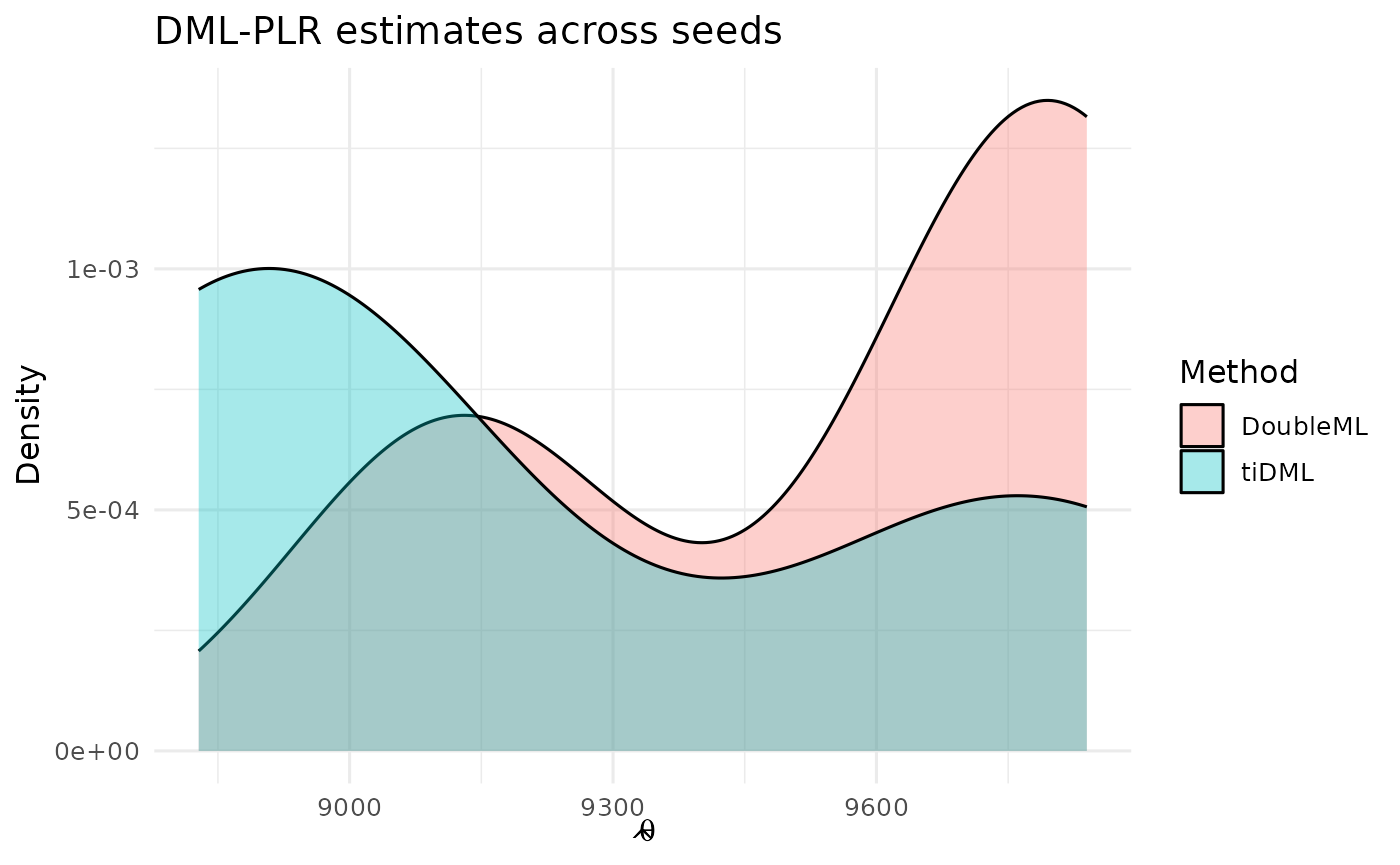
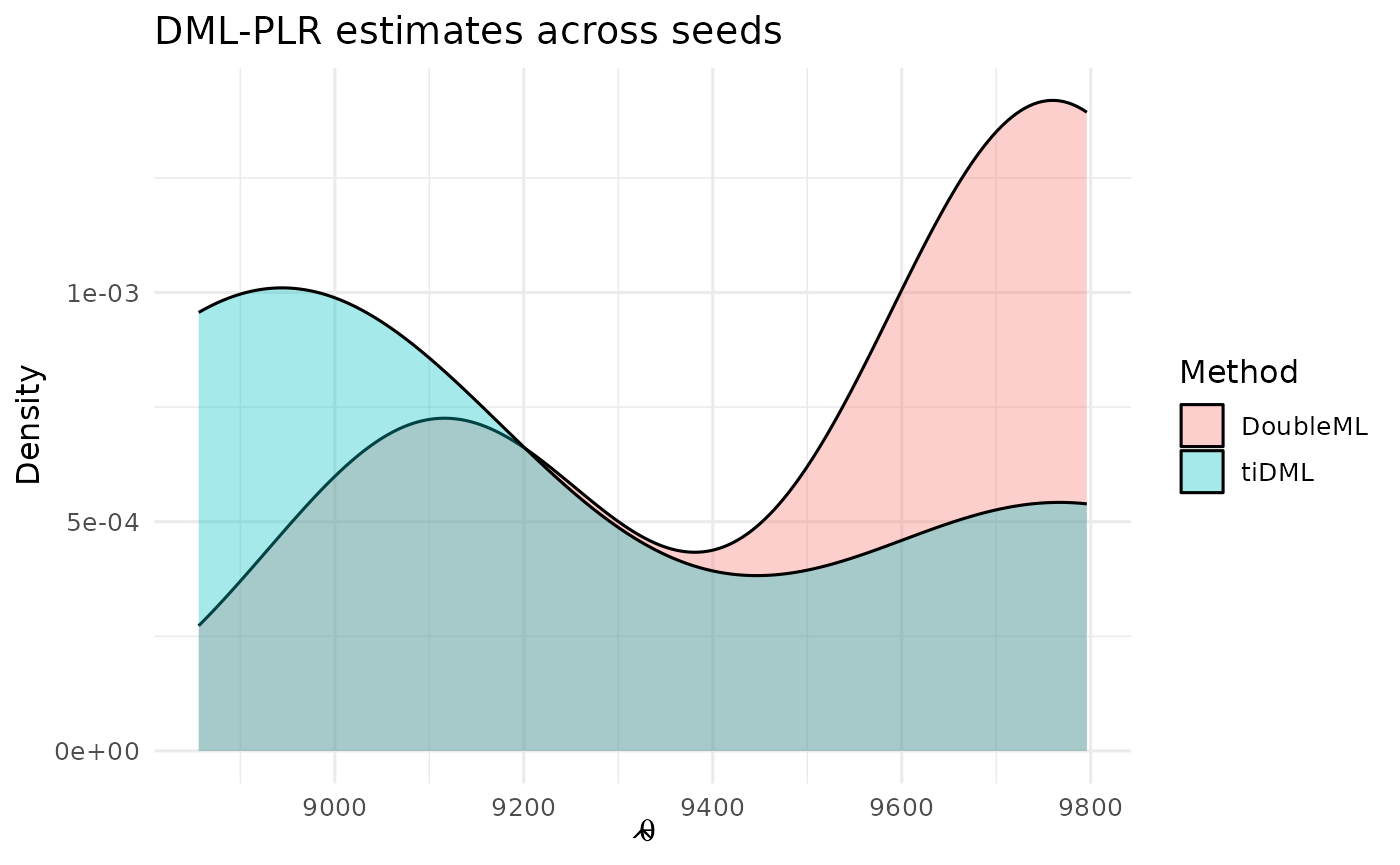
Deploying to gh-pages from @ jberesford-fe/tiDML@112e1fd5d14112a3515f57d68da0cf1e44dda5f6 🚀

diff --git a/articles/package-replication.html b/articles/package-replication.html
@@ -5,7 +5,7 @@
 <meta charset="utf-8">
 <meta http-equiv="X-UA-Compatible" content="IE=edge">
 <meta name="viewport" content="width=device-width, initial-scale=1, shrink-to-fit=no">
-<title>Package Replication • tiDML</title>
+<title>DoubleML Package • tiDML</title>
 <!-- favicons --><link rel="icon" type="image/png" sizes="96x96" href="../favicon-96x96.png">
 <link rel="icon" type="”image/svg+xml”" href="../favicon.svg">
 <link rel="apple-touch-icon" sizes="180x180" href="../apple-touch-icon.png">
@@ -15,7 +15,7 @@
 <link href="../deps/bootstrap-5.3.1/bootstrap.min.css" rel="stylesheet">
 <script src="../deps/bootstrap-5.3.1/bootstrap.bundle.min.js"></script><link href="../deps/font-awesome-6.5.2/css/all.min.css" rel="stylesheet">
 <link href="../deps/font-awesome-6.5.2/css/v4-shims.min.css" rel="stylesheet">
-<script src="../deps/headroom-0.11.0/headroom.min.js"></script><script src="../deps/headroom-0.11.0/jQuery.headroom.min.js"></script><script src="../deps/bootstrap-toc-1.0.1/bootstrap-toc.min.js"></script><script src="../deps/clipboard.js-2.0.11/clipboard.min.js"></script><script src="../deps/search-1.0.0/autocomplete.jquery.min.js"></script><script src="../deps/search-1.0.0/fuse.min.js"></script><script src="../deps/search-1.0.0/mark.min.js"></script><!-- pkgdown --><script src="../pkgdown.js"></script><meta property="og:title" content="Package Replication">
+<script src="../deps/headroom-0.11.0/headroom.min.js"></script><script src="../deps/headroom-0.11.0/jQuery.headroom.min.js"></script><script src="../deps/bootstrap-toc-1.0.1/bootstrap-toc.min.js"></script><script src="../deps/clipboard.js-2.0.11/clipboard.min.js"></script><script src="../deps/search-1.0.0/autocomplete.jquery.min.js"></script><script src="../deps/search-1.0.0/fuse.min.js"></script><script src="../deps/search-1.0.0/mark.min.js"></script><!-- pkgdown --><script src="../pkgdown.js"></script><meta property="og:title" content="DoubleML Package">
 </head>
 <body>
     <a href="#main" class="visually-hidden-focusable">Skip to contents</a>
@@ -41,10 +41,11 @@
   <ul class="dropdown-menu" aria-labelledby="dropdown-articles">
 <li><hr class="dropdown-divider"></li>
     <li><h6 class="dropdown-header" data-toc-skip>Replication</h6></li>
-    <li><a class="dropdown-item" href="../articles/package-replication.html">Package Replication</a></li>
+    <li><a class="dropdown-item" href="../articles/package-replication.html">DoubleML Package</a></li>
     <li><hr class="dropdown-divider"></li>
     <li><h6 class="dropdown-header" data-toc-skip>How-to</h6></li>
-    <li><a class="dropdown-item" href="../articles/user-defined-recipies.html">User Defined Recipies</a></li>
+    <li><a class="dropdown-item" href="../articles/user-defined-recipies.html">Set your own model</a></li>
+    <li><a class="dropdown-item" href="../articles/examine-outputs.html">Examine model outputs</a></li>
   </ul>
 </li>
       </ul>
@@ -64,7 +65,7 @@
 
 <div class="row">
   <main id="main" class="col-md-9"><div class="page-header">
-      <img src="../logo.png" class="logo" alt=""><h1>Package Replication</h1>
+      <img src="../logo.png" class="logo" alt=""><h1>DoubleML Package</h1>
             
       
 
@@ -112,15 +113,28 @@ first is classification while the second is regression.</p>
 <code class="sourceCode R"><span><span class="va">run_tidml</span> <span class="op">&lt;-</span> <span class="kw">function</span><span class="op">(</span><span class="va">seed</span>, <span class="va">df</span>, <span class="va">y</span>, <span class="va">d</span>, <span class="va">x</span>, <span class="va">grid_trees</span> <span class="op">=</span> <span class="fl">1200L</span>, <span class="va">n_folds</span> <span class="op">=</span> <span class="fl">5L</span><span class="op">)</span> <span class="op">{</span></span>
 <span>  <span class="fu"><a href="https://rdrr.io/r/base/Random.html" class="external-link">set.seed</a></span><span class="op">(</span><span class="va">seed</span><span class="op">)</span></span>
 <span></span>
+<span>  <span class="co"># Set regression model for Y variable</span></span>
+<span>  <span class="va">rf_reg</span> <span class="op">&lt;-</span> <span class="fu">parsnip</span><span class="fu">::</span><span class="fu"><a href="https://parsnip.tidymodels.org/reference/rand_forest.html" class="external-link">rand_forest</a></span><span class="op">(</span>trees <span class="op">=</span> <span class="fl">500</span><span class="op">)</span> <span class="op">|&gt;</span></span>
+<span>  <span class="fu">parsnip</span><span class="fu">::</span><span class="fu"><a href="https://parsnip.tidymodels.org/reference/set_args.html" class="external-link">set_mode</a></span><span class="op">(</span><span class="st">"regression"</span><span class="op">)</span> <span class="op">|&gt;</span></span>
+<span>  <span class="fu">parsnip</span><span class="fu">::</span><span class="fu"><a href="https://parsnip.tidymodels.org/reference/set_engine.html" class="external-link">set_engine</a></span><span class="op">(</span><span class="st">"ranger"</span>, num.threads <span class="op">=</span> <span class="fl">1</span><span class="op">)</span></span>
+<span></span>
+<span>  <span class="co"># Set classification model for D variable, which is binary</span></span>
+<span>  <span class="va">rf_classif</span> <span class="op">&lt;-</span> <span class="fu">parsnip</span><span class="fu">::</span><span class="fu"><a href="https://parsnip.tidymodels.org/reference/rand_forest.html" class="external-link">rand_forest</a></span><span class="op">(</span>trees <span class="op">=</span> <span class="fl">500</span><span class="op">)</span> <span class="op">|&gt;</span></span>
+<span>    <span class="fu">parsnip</span><span class="fu">::</span><span class="fu"><a href="https://parsnip.tidymodels.org/reference/set_args.html" class="external-link">set_mode</a></span><span class="op">(</span><span class="st">"classification"</span><span class="op">)</span> <span class="op">|&gt;</span></span>
+<span>    <span class="fu">parsnip</span><span class="fu">::</span><span class="fu"><a href="https://parsnip.tidymodels.org/reference/set_engine.html" class="external-link">set_engine</a></span><span class="op">(</span><span class="st">"ranger"</span>, num.threads <span class="op">=</span> <span class="fl">1</span>, probability <span class="op">=</span> <span class="cn">TRUE</span><span class="op">)</span></span>
+<span>  </span>
+<span>  <span class="va">df</span> <span class="op">&lt;-</span> <span class="va">df</span> <span class="op">|&gt;</span> <span class="fu"><a href="https://dplyr.tidyverse.org/reference/mutate.html" class="external-link">mutate</a></span><span class="op">(</span><span class="op">!</span><span class="op">!</span><span class="va">d</span> <span class="op">:=</span> <span class="fu"><a href="https://rdrr.io/r/base/factor.html" class="external-link">as.factor</a></span><span class="op">(</span><span class="op">!</span><span class="op">!</span><span class="fu">rlang</span><span class="fu">::</span><span class="fu"><a href="https://rlang.r-lib.org/reference/sym.html" class="external-link">sym</a></span><span class="op">(</span><span class="va">d</span><span class="op">)</span><span class="op">)</span><span class="op">)</span></span>
+<span></span>
 <span>  <span class="va">fit_tidml</span> <span class="op">&lt;-</span> <span class="fu"><a href="../reference/dml_plr.html">dml_plr</a></span><span class="op">(</span></span>
 <span>    data <span class="op">=</span> <span class="va">df</span>,</span>
 <span>    y <span class="op">=</span> <span class="op">!</span><span class="op">!</span><span class="fu">rlang</span><span class="fu">::</span><span class="fu"><a href="https://rlang.r-lib.org/reference/sym.html" class="external-link">sym</a></span><span class="op">(</span><span class="va">y</span><span class="op">)</span>,</span>
 <span>    d <span class="op">=</span> <span class="op">!</span><span class="op">!</span><span class="fu">rlang</span><span class="fu">::</span><span class="fu"><a href="https://rlang.r-lib.org/reference/sym.html" class="external-link">sym</a></span><span class="op">(</span><span class="va">d</span><span class="op">)</span>,</span>
 <span>    x <span class="op">=</span> <span class="va">x</span>,</span>
-<span>    m_model <span class="op">=</span> <span class="st">"rf"</span>,</span>
-<span>    g_model <span class="op">=</span> <span class="st">"rf"</span>,</span>
+<span>    g_model <span class="op">=</span> <span class="va">rf_reg</span>,</span>
+<span>    m_model <span class="op">=</span> <span class="va">rf_classif</span>,</span>
 <span>    grid_size <span class="op">=</span> <span class="fu"><a href="https://rdrr.io/r/base/list.html" class="external-link">list</a></span><span class="op">(</span>m <span class="op">=</span> <span class="fl">15</span>, g <span class="op">=</span> <span class="fl">15</span><span class="op">)</span></span>
 <span>  <span class="op">)</span></span>
+<span></span>
 <span>  <span class="fu"><a href="https://tibble.tidyverse.org/reference/tibble.html" class="external-link">tibble</a></span><span class="op">(</span></span>
 <span>    method <span class="op">=</span> <span class="st">"tiDML"</span>,</span>
 <span>    seed <span class="op">=</span> <span class="va">seed</span>,</span>
@@ -140,19 +154,32 @@ first is classification while the second is regression.</p>
 <code class="sourceCode R"><span><span class="va">run_dml</span> <span class="op">&lt;-</span> <span class="kw">function</span><span class="op">(</span><span class="va">seed</span>, <span class="va">df</span>, <span class="va">y</span>, <span class="va">d</span>, <span class="va">x</span>, <span class="va">grid_trees</span> <span class="op">=</span> <span class="fl">1200L</span>, <span class="va">n_folds</span> <span class="op">=</span> <span class="fl">5L</span><span class="op">)</span> <span class="op">{</span></span>
 <span>  <span class="co">## DoubleML :: PLR with ranger</span></span>
 <span>  <span class="va">ml_l</span> <span class="op">&lt;-</span> <span class="fu"><a href="https://mlr3.mlr-org.com/reference/mlr_sugar.html" class="external-link">lrn</a></span><span class="op">(</span><span class="st">"regr.ranger"</span>,</span>
-<span>              num.trees <span class="op">=</span> <span class="va">grid_trees</span>, num.threads <span class="op">=</span> <span class="fl">1</span>,</span>
+<span>              num.trees <span class="op">=</span> <span class="va">grid_trees</span>, </span>
+<span>              num.threads <span class="op">=</span> <span class="fl">1</span>,</span>
 <span>              respect.unordered.factors <span class="op">=</span> <span class="st">"order"</span><span class="op">)</span></span>
-<span>  <span class="va">ml_m</span> <span class="op">&lt;-</span> <span class="fu"><a href="https://mlr3.mlr-org.com/reference/mlr_sugar.html" class="external-link">lrn</a></span><span class="op">(</span><span class="st">"regr.ranger"</span>,</span>
-<span>            num.trees <span class="op">=</span> <span class="fl">1200</span>, num.threads <span class="op">=</span> <span class="fl">1</span>,</span>
-<span>            respect.unordered.factors <span class="op">=</span> <span class="st">"order"</span><span class="op">)</span></span>
+<span>  </span>
+<span>  <span class="va">ml_m</span> <span class="op">&lt;-</span> <span class="fu"><a href="https://mlr3.mlr-org.com/reference/mlr_sugar.html" class="external-link">lrn</a></span><span class="op">(</span></span>
+<span>    <span class="st">"classif.ranger"</span>,</span>
+<span>    num.trees <span class="op">=</span> <span class="va">grid_trees</span>,</span>
+<span>    num.threads <span class="op">=</span> <span class="fl">1</span>,</span>
+<span>    predict_type<span class="op">=</span><span class="st">"prob"</span></span>
+<span>  <span class="op">)</span></span>
 <span></span>
 <span>  <span class="va">dml_data</span> <span class="op">&lt;-</span> <span class="va"><a href="https://rdrr.io/pkg/DoubleML/man/DoubleMLData.html" class="external-link">DoubleMLData</a></span><span class="op">$</span><span class="fu">new</span><span class="op">(</span></span>
-<span>    data <span class="op">=</span> <span class="va">df</span>, y_col <span class="op">=</span> <span class="va">y</span>, d_cols <span class="op">=</span> <span class="va">d</span>, x_cols <span class="op">=</span> <span class="va">x</span></span>
+<span>    data <span class="op">=</span> <span class="va">df</span>, </span>
+<span>    y_col <span class="op">=</span> <span class="va">y</span>, </span>
+<span>    d_cols <span class="op">=</span> <span class="va">d</span>, </span>
+<span>    x_cols <span class="op">=</span> <span class="va">x</span></span>
 <span>  <span class="op">)</span></span>
+<span></span>
 <span>  <span class="va">dml</span> <span class="op">&lt;-</span> <span class="va"><a href="https://rdrr.io/pkg/DoubleML/man/DoubleMLPLR.html" class="external-link">DoubleMLPLR</a></span><span class="op">$</span><span class="fu">new</span><span class="op">(</span></span>
-<span>    <span class="va">dml_data</span>, ml_l <span class="op">=</span> <span class="va">ml_l</span>, ml_m <span class="op">=</span> <span class="va">ml_m</span>,</span>
-<span>    n_folds <span class="op">=</span> <span class="va">n_folds</span>, score <span class="op">=</span> <span class="st">"partialling out"</span></span>
+<span>    <span class="va">dml_data</span>, </span>
+<span>    ml_l <span class="op">=</span> <span class="va">ml_l</span>, </span>
+<span>    ml_m <span class="op">=</span> <span class="va">ml_m</span>,</span>
+<span>    n_folds <span class="op">=</span> <span class="va">n_folds</span>,</span>
+<span>    score <span class="op">=</span> <span class="st">"partialling out"</span></span>
 <span>  <span class="op">)</span></span>
+<span></span>
 <span>  <span class="va">dml</span><span class="op">$</span><span class="fu">fit</span><span class="op">(</span><span class="op">)</span></span>
 <span></span>
 <span>  <span class="va">ci</span> <span class="op">&lt;-</span> <span class="va">dml</span><span class="op">$</span><span class="fu">confint</span><span class="op">(</span>level <span class="op">=</span> <span class="fl">0.95</span><span class="op">)</span></span>

diff --git a/articles/examine-outputs.html b/articles/examine-outputs.html
@@ -5,7 +5,7 @@
 <meta charset="utf-8">
 <meta http-equiv="X-UA-Compatible" content="IE=edge">
 <meta name="viewport" content="width=device-width, initial-scale=1, shrink-to-fit=no">
-<title>Set your own model • tiDML</title>
+<title>Examine model outputs • tiDML</title>
 <!-- favicons --><link rel="icon" type="image/png" sizes="96x96" href="../favicon-96x96.png">
 <link rel="icon" type="”image/svg+xml”" href="../favicon.svg">
 <link rel="apple-touch-icon" sizes="180x180" href="../apple-touch-icon.png">
@@ -15,7 +15,7 @@
 <link href="../deps/bootstrap-5.3.1/bootstrap.min.css" rel="stylesheet">
 <script src="../deps/bootstrap-5.3.1/bootstrap.bundle.min.js"></script><link href="../deps/font-awesome-6.5.2/css/all.min.css" rel="stylesheet">
 <link href="../deps/font-awesome-6.5.2/css/v4-shims.min.css" rel="stylesheet">
-<script src="../deps/headroom-0.11.0/headroom.min.js"></script><script src="../deps/headroom-0.11.0/jQuery.headroom.min.js"></script><script src="../deps/bootstrap-toc-1.0.1/bootstrap-toc.min.js"></script><script src="../deps/clipboard.js-2.0.11/clipboard.min.js"></script><script src="../deps/search-1.0.0/autocomplete.jquery.min.js"></script><script src="../deps/search-1.0.0/fuse.min.js"></script><script src="../deps/search-1.0.0/mark.min.js"></script><!-- pkgdown --><script src="../pkgdown.js"></script><meta property="og:title" content="Set your own model">
+<script src="../deps/headroom-0.11.0/headroom.min.js"></script><script src="../deps/headroom-0.11.0/jQuery.headroom.min.js"></script><script src="../deps/bootstrap-toc-1.0.1/bootstrap-toc.min.js"></script><script src="../deps/clipboard.js-2.0.11/clipboard.min.js"></script><script src="../deps/search-1.0.0/autocomplete.jquery.min.js"></script><script src="../deps/search-1.0.0/fuse.min.js"></script><script src="../deps/search-1.0.0/mark.min.js"></script><!-- pkgdown --><script src="../pkgdown.js"></script><meta property="og:title" content="Examine model outputs">
 </head>
 <body>
     <a href="#main" class="visually-hidden-focusable">Skip to contents</a>
@@ -65,36 +65,20 @@
 
 <div class="row">
   <main id="main" class="col-md-9"><div class="page-header">
-      <img src="../logo.png" class="logo" alt=""><h1>Set your own model</h1>
+      <img src="../logo.png" class="logo" alt=""><h1>Examine model outputs</h1>
             
       
 
-      <div class="d-none name"><code>user-defined-recipies.Rmd</code></div>
+      <div class="d-none name"><code>examine-outputs.Rmd</code></div>
     </div>
 
     
     
-<div class="section level2">
-<h2 id="tidml-with-user-defined-recipies">TiDML with User-defined Recipies<a class="anchor" aria-label="anchor" href="#tidml-with-user-defined-recipies"></a>
-</h2>
 <div class="sourceCode" id="cb1"><pre class="downlit sourceCode r">
-<code class="sourceCode R"><span><span class="kw"><a href="https://rdrr.io/r/base/library.html" class="external-link">library</a></span><span class="op">(</span><span class="va">tiDML</span><span class="op">)</span></span>
-<span></span>
-<span><span class="va">fit</span> <span class="op">&lt;-</span> <span class="fu"><a href="../reference/dml_plr.html">dml_plr</a></span><span class="op">(</span></span>
-<span>  <span class="va">mtcars</span>,</span>
-<span>  y <span class="op">=</span> <span class="st">"mpg"</span>,</span>
-<span>  d <span class="op">=</span> <span class="st">"am"</span>,</span>
-<span>  x <span class="op">=</span> <span class="fu"><a href="https://rdrr.io/r/base/c.html" class="external-link">c</a></span><span class="op">(</span><span class="st">"cyl"</span>, <span class="st">"disp"</span>, <span class="st">"hp"</span>, <span class="st">"drat"</span>, <span class="st">"wt"</span>, <span class="st">"qsec"</span>, <span class="st">"vs"</span>, <span class="st">"gear"</span>, <span class="st">"carb"</span><span class="op">)</span>,</span>
-<span>  m_model <span class="op">=</span> <span class="st">"rf"</span>,</span>
-<span>  g_model <span class="op">=</span> <span class="st">"rf"</span></span>
-<span><span class="op">)</span> </span>
-<span><span class="co">#&gt; treatment model (first stage) mode set to: regression</span></span>
-<span></span>
-<span><span class="fu"><a href="https://rdrr.io/r/base/print.html" class="external-link">print</a></span><span class="op">(</span><span class="va">fit</span><span class="op">)</span></span>
-<span><span class="co">#&gt; DML-PLR estimate (res_y ~ res_d)</span></span>
-<span><span class="co">#&gt;   theta: 0.867581</span></span>
-<span><span class="co">#&gt;   se:    0.952977</span></span>
-<span><span class="co">#&gt;   95% CI: [-1.000221, 2.735382]</span></span></code></pre></div>
+<code class="sourceCode R"><span><span class="kw"><a href="https://rdrr.io/r/base/library.html" class="external-link">library</a></span><span class="op">(</span><span class="va">tiDML</span><span class="op">)</span></span></code></pre></div>
+<div class="section level2">
+<h2 id="coming-soon">Coming soon!<a class="anchor" aria-label="anchor" href="#coming-soon"></a>
+</h2>
 </div>
   </main>
 </div>

diff --git a/index.html b/index.html
@@ -44,10 +44,11 @@
   <ul class="dropdown-menu" aria-labelledby="dropdown-articles">
 <li><hr class="dropdown-divider"></li>
     <li><h6 class="dropdown-header" data-toc-skip>Replication</h6></li>
-    <li><a class="dropdown-item" href="articles/package-replication.html">Package Replication</a></li>
+    <li><a class="dropdown-item" href="articles/package-replication.html">DoubleML Package</a></li>
     <li><hr class="dropdown-divider"></li>
     <li><h6 class="dropdown-header" data-toc-skip>How-to</h6></li>
-    <li><a class="dropdown-item" href="articles/user-defined-recipies.html">User Defined Recipies</a></li>
+    <li><a class="dropdown-item" href="articles/user-defined-recipies.html">Set your own model</a></li>
+    <li><a class="dropdown-item" href="articles/examine-outputs.html">Examine model outputs</a></li>
   </ul>
 </li>
       </ul>
@@ -70,9 +71,9 @@
 <p>The goal of tiDML is twofold:</p>
 <ol style="list-style-type: decimal">
 <li><p><strong>Simple first pass</strong>: provide a straightforward way to run Double Machine Learning (DML) in R. Users only need to specify their data, a formula, and a model type as string (e.g. “random forest”, “xgboost” etc). Defaults are set to sensible values, so it’s a quick first pass to ask: “do my OLS results change materially under DML?”</p></li>
-<li><p><strong>Run DML the tidymodels way</strong>: a flexible framework that lets you define and inspect both stages of the DML process explicitly. Specify first- and second-stage models with <code>parsnip</code>, handle preprocessing through <code>recipes</code>, and combine them with <code>workflows</code>. These custom nuisance models then fit seamlessly into the tiDML pipeline.</p></li>
+<li><p><strong>Run DML the tidymodels way</strong>: a flexible framework that lets you define and inspect both stages of the DML process explicitly. Specify first- and second-stage models, chosing from thousands of <a href="https://www.tidymodels.org/find/parsnip/" class="external-link"><code>parsnip</code></a> models. In the backend, preprocessing is handled through <code>recipes</code>, and these are combined with <code>workflows</code>. These models are easy to examine individually, and fit seamlessly into the tiDML pipeline.</p></li>
 </ol>
-<p>In short, while tiDML can simplify things, it’s main contribution is in letting you define and examine both stages of the DML process explicitly, and in the way a <code>tidymodels</code> user would expect.</p>
+<p>In short, while tiDML can simplify things, it’s main contribution is in letting you define and examine both stages of the DML process explicitly, in a way that a <code>tidymodels</code> user would know and love.</p>
 <div class="section level2">
 <h2 id="installation">Installation<a class="anchor" aria-label="anchor" href="#installation"></a>
 </h2>

diff --git a/articles/index.html b/articles/index.html
@@ -21,10 +21,11 @@
   <button class="nav-link dropdown-toggle" type="button" id="dropdown-articles" data-bs-toggle="dropdown" aria-expanded="false" aria-haspopup="true">Articles</button>
   <ul class="dropdown-menu" aria-labelledby="dropdown-articles"><li><hr class="dropdown-divider"></li>
     <li><h6 class="dropdown-header" data-toc-skip>Replication</h6></li>
-    <li><a class="dropdown-item" href="../articles/package-replication.html">Package Replication</a></li>
+    <li><a class="dropdown-item" href="../articles/package-replication.html">DoubleML Package</a></li>
     <li><hr class="dropdown-divider"></li>
     <li><h6 class="dropdown-header" data-toc-skip>How-to</h6></li>
-    <li><a class="dropdown-item" href="../articles/user-defined-recipies.html">User Defined Recipies</a></li>
+    <li><a class="dropdown-item" href="../articles/user-defined-recipies.html">Set your own model</a></li>
+    <li><a class="dropdown-item" href="../articles/examine-outputs.html">Examine model outputs</a></li>
   </ul></li>
       </ul><ul class="navbar-nav"><li class="nav-item"><form class="form-inline" role="search">
  <input class="form-control" type="search" name="search-input" id="search-input" autocomplete="off" aria-label="Search site" placeholder="Search for" data-search-index="../search.json"></form></li>
@@ -42,14 +43,16 @@
       <h3>Replication</h3>
       <div class="section-desc"></div>
 
-      <dl><dt><a href="package-replication.html">Package Replication</a></dt>
+      <dl><dt><a href="package-replication.html">DoubleML Package</a></dt>
         <dd>
       </dd></dl></div>
     <div class="section ">
       <h3>How-to</h3>
       <div class="section-desc"></div>
 
-      <dl><dt><a href="user-defined-recipies.html">User Defined Recipies</a></dt>
+      <dl><dt><a href="user-defined-recipies.html">Set your own model</a></dt>
+        <dd>
+        </dd><dt><a href="examine-outputs.html">Examine model outputs</a></dt>
         <dd>
       </dd></dl></div>
   </main><aside class="col-md-3"><nav id="toc" aria-label="Table of contents"><h2>On this page</h2>

diff --git a/reference/base_recipe.html b/reference/base_recipe.html
@@ -21,10 +21,11 @@
   <button class="nav-link dropdown-toggle" type="button" id="dropdown-articles" data-bs-toggle="dropdown" aria-expanded="false" aria-haspopup="true">Articles</button>
   <ul class="dropdown-menu" aria-labelledby="dropdown-articles"><li><hr class="dropdown-divider"></li>
     <li><h6 class="dropdown-header" data-toc-skip>Replication</h6></li>
-    <li><a class="dropdown-item" href="../articles/package-replication.html">Package Replication</a></li>
+    <li><a class="dropdown-item" href="../articles/package-replication.html">DoubleML Package</a></li>
     <li><hr class="dropdown-divider"></li>
     <li><h6 class="dropdown-header" data-toc-skip>How-to</h6></li>
-    <li><a class="dropdown-item" href="../articles/user-defined-recipies.html">User Defined Recipies</a></li>
+    <li><a class="dropdown-item" href="../articles/user-defined-recipies.html">Set your own model</a></li>
+    <li><a class="dropdown-item" href="../articles/examine-outputs.html">Examine model outputs</a></li>
   </ul></li>
       </ul><ul class="navbar-nav"><li class="nav-item"><form class="form-inline" role="search">
  <input class="form-control" type="search" name="search-input" id="search-input" autocomplete="off" aria-label="Search site" placeholder="Search for" data-search-index="../search.json"></form></li>

diff --git a/reference/crossfit_residuals.html b/reference/crossfit_residuals.html
@@ -21,10 +21,11 @@
   <button class="nav-link dropdown-toggle" type="button" id="dropdown-articles" data-bs-toggle="dropdown" aria-expanded="false" aria-haspopup="true">Articles</button>
   <ul class="dropdown-menu" aria-labelledby="dropdown-articles"><li><hr class="dropdown-divider"></li>
     <li><h6 class="dropdown-header" data-toc-skip>Replication</h6></li>
-    <li><a class="dropdown-item" href="../articles/package-replication.html">Package Replication</a></li>
+    <li><a class="dropdown-item" href="../articles/package-replication.html">DoubleML Package</a></li>
     <li><hr class="dropdown-divider"></li>
     <li><h6 class="dropdown-header" data-toc-skip>How-to</h6></li>
-    <li><a class="dropdown-item" href="../articles/user-defined-recipies.html">User Defined Recipies</a></li>
+    <li><a class="dropdown-item" href="../articles/user-defined-recipies.html">Set your own model</a></li>
+    <li><a class="dropdown-item" href="../articles/examine-outputs.html">Examine model outputs</a></li>
   </ul></li>
       </ul><ul class="navbar-nav"><li class="nav-item"><form class="form-inline" role="search">
  <input class="form-control" type="search" name="search-input" id="search-input" autocomplete="off" aria-label="Search site" placeholder="Search for" data-search-index="../search.json"></form></li>

diff --git a/reference/dml_plr.html b/reference/dml_plr.html
@@ -21,10 +21,11 @@
   <button class="nav-link dropdown-toggle" type="button" id="dropdown-articles" data-bs-toggle="dropdown" aria-expanded="false" aria-haspopup="true">Articles</button>
   <ul class="dropdown-menu" aria-labelledby="dropdown-articles"><li><hr class="dropdown-divider"></li>
     <li><h6 class="dropdown-header" data-toc-skip>Replication</h6></li>
-    <li><a class="dropdown-item" href="../articles/package-replication.html">Package Replication</a></li>
+    <li><a class="dropdown-item" href="../articles/package-replication.html">DoubleML Package</a></li>
     <li><hr class="dropdown-divider"></li>
     <li><h6 class="dropdown-header" data-toc-skip>How-to</h6></li>
-    <li><a class="dropdown-item" href="../articles/user-defined-recipies.html">User Defined Recipies</a></li>
+    <li><a class="dropdown-item" href="../articles/user-defined-recipies.html">Set your own model</a></li>
+    <li><a class="dropdown-item" href="../articles/examine-outputs.html">Examine model outputs</a></li>
   </ul></li>
       </ul><ul class="navbar-nav"><li class="nav-item"><form class="form-inline" role="search">
  <input class="form-control" type="search" name="search-input" id="search-input" autocomplete="off" aria-label="Search site" placeholder="Search for" data-search-index="../search.json"></form></li>

diff --git a/reference/index.html b/reference/index.html
@@ -21,10 +21,11 @@
   <button class="nav-link dropdown-toggle" type="button" id="dropdown-articles" data-bs-toggle="dropdown" aria-expanded="false" aria-haspopup="true">Articles</button>
   <ul class="dropdown-menu" aria-labelledby="dropdown-articles"><li><hr class="dropdown-divider"></li>
     <li><h6 class="dropdown-header" data-toc-skip>Replication</h6></li>
-    <li><a class="dropdown-item" href="../articles/package-replication.html">Package Replication</a></li>
+    <li><a class="dropdown-item" href="../articles/package-replication.html">DoubleML Package</a></li>
     <li><hr class="dropdown-divider"></li>
     <li><h6 class="dropdown-header" data-toc-skip>How-to</h6></li>
-    <li><a class="dropdown-item" href="../articles/user-defined-recipies.html">User Defined Recipies</a></li>
+    <li><a class="dropdown-item" href="../articles/user-defined-recipies.html">Set your own model</a></li>
+    <li><a class="dropdown-item" href="../articles/examine-outputs.html">Examine model outputs</a></li>
   </ul></li>
       </ul><ul class="navbar-nav"><li class="nav-item"><form class="form-inline" role="search">
  <input class="form-control" type="search" name="search-input" id="search-input" autocomplete="off" aria-label="Search site" placeholder="Search for" data-search-index="../search.json"></form></li>

diff --git a/reference/load_example_data.html b/reference/load_example_data.html
@@ -21,10 +21,11 @@
   <button class="nav-link dropdown-toggle" type="button" id="dropdown-articles" data-bs-toggle="dropdown" aria-expanded="false" aria-haspopup="true">Articles</button>
   <ul class="dropdown-menu" aria-labelledby="dropdown-articles"><li><hr class="dropdown-divider"></li>
     <li><h6 class="dropdown-header" data-toc-skip>Replication</h6></li>
-    <li><a class="dropdown-item" href="../articles/package-replication.html">Package Replication</a></li>
+    <li><a class="dropdown-item" href="../articles/package-replication.html">DoubleML Package</a></li>
     <li><hr class="dropdown-divider"></li>
     <li><h6 class="dropdown-header" data-toc-skip>How-to</h6></li>
-    <li><a class="dropdown-item" href="../articles/user-defined-recipies.html">User Defined Recipies</a></li>
+    <li><a class="dropdown-item" href="../articles/user-defined-recipies.html">Set your own model</a></li>
+    <li><a class="dropdown-item" href="../articles/examine-outputs.html">Examine model outputs</a></li>
   </ul></li>
       </ul><ul class="navbar-nav"><li class="nav-item"><form class="form-inline" role="search">
  <input class="form-control" type="search" name="search-input" id="search-input" autocomplete="off" aria-label="Search site" placeholder="Search for" data-search-index="../search.json"></form></li>

diff --git a/reference/numeric_pred.html b/reference/numeric_pred.html
@@ -21,10 +21,11 @@
   <button class="nav-link dropdown-toggle" type="button" id="dropdown-articles" data-bs-toggle="dropdown" aria-expanded="false" aria-haspopup="true">Articles</button>
   <ul class="dropdown-menu" aria-labelledby="dropdown-articles"><li><hr class="dropdown-divider"></li>
     <li><h6 class="dropdown-header" data-toc-skip>Replication</h6></li>
-    <li><a class="dropdown-item" href="../articles/package-replication.html">Package Replication</a></li>
+    <li><a class="dropdown-item" href="../articles/package-replication.html">DoubleML Package</a></li>
     <li><hr class="dropdown-divider"></li>
     <li><h6 class="dropdown-header" data-toc-skip>How-to</h6></li>
-    <li><a class="dropdown-item" href="../articles/user-defined-recipies.html">User Defined Recipies</a></li>
+    <li><a class="dropdown-item" href="../articles/user-defined-recipies.html">Set your own model</a></li>
+    <li><a class="dropdown-item" href="../articles/examine-outputs.html">Examine model outputs</a></li>
   </ul></li>
       </ul><ul class="navbar-nav"><li class="nav-item"><form class="form-inline" role="search">
  <input class="form-control" type="search" name="search-input" id="search-input" autocomplete="off" aria-label="Search site" placeholder="Search for" data-search-index="../search.json"></form></li>

diff --git a/reference/resolve_engine.html b/reference/resolve_engine.html
@@ -21,10 +21,11 @@
   <button class="nav-link dropdown-toggle" type="button" id="dropdown-articles" data-bs-toggle="dropdown" aria-expanded="false" aria-haspopup="true">Articles</button>
   <ul class="dropdown-menu" aria-labelledby="dropdown-articles"><li><hr class="dropdown-divider"></li>
     <li><h6 class="dropdown-header" data-toc-skip>Replication</h6></li>
-    <li><a class="dropdown-item" href="../articles/package-replication.html">Package Replication</a></li>
+    <li><a class="dropdown-item" href="../articles/package-replication.html">DoubleML Package</a></li>
     <li><hr class="dropdown-divider"></li>
     <li><h6 class="dropdown-header" data-toc-skip>How-to</h6></li>
-    <li><a class="dropdown-item" href="../articles/user-defined-recipies.html">User Defined Recipies</a></li>
+    <li><a class="dropdown-item" href="../articles/user-defined-recipies.html">Set your own model</a></li>
+    <li><a class="dropdown-item" href="../articles/examine-outputs.html">Examine model outputs</a></li>
   </ul></li>
       </ul><ul class="navbar-nav"><li class="nav-item"><form class="form-inline" role="search">
  <input class="form-control" type="search" name="search-input" id="search-input" autocomplete="off" aria-label="Search site" placeholder="Search for" data-search-index="../search.json"></form></li>

diff --git a/reference/resolve_recipe_factory.html b/reference/resolve_recipe_factory.html
@@ -21,10 +21,11 @@
   <button class="nav-link dropdown-toggle" type="button" id="dropdown-articles" data-bs-toggle="dropdown" aria-expanded="false" aria-haspopup="true">Articles</button>
   <ul class="dropdown-menu" aria-labelledby="dropdown-articles"><li><hr class="dropdown-divider"></li>
     <li><h6 class="dropdown-header" data-toc-skip>Replication</h6></li>
-    <li><a class="dropdown-item" href="../articles/package-replication.html">Package Replication</a></li>
+    <li><a class="dropdown-item" href="../articles/package-replication.html">DoubleML Package</a></li>
     <li><hr class="dropdown-divider"></li>
     <li><h6 class="dropdown-header" data-toc-skip>How-to</h6></li>
-    <li><a class="dropdown-item" href="../articles/user-defined-recipies.html">User Defined Recipies</a></li>
+    <li><a class="dropdown-item" href="../articles/user-defined-recipies.html">Set your own model</a></li>
+    <li><a class="dropdown-item" href="../articles/examine-outputs.html">Examine model outputs</a></li>
   </ul></li>
       </ul><ul class="navbar-nav"><li class="nav-item"><form class="form-inline" role="search">
  <input class="form-control" type="search" name="search-input" id="search-input" autocomplete="off" aria-label="Search site" placeholder="Search for" data-search-index="../search.json"></form></li>
